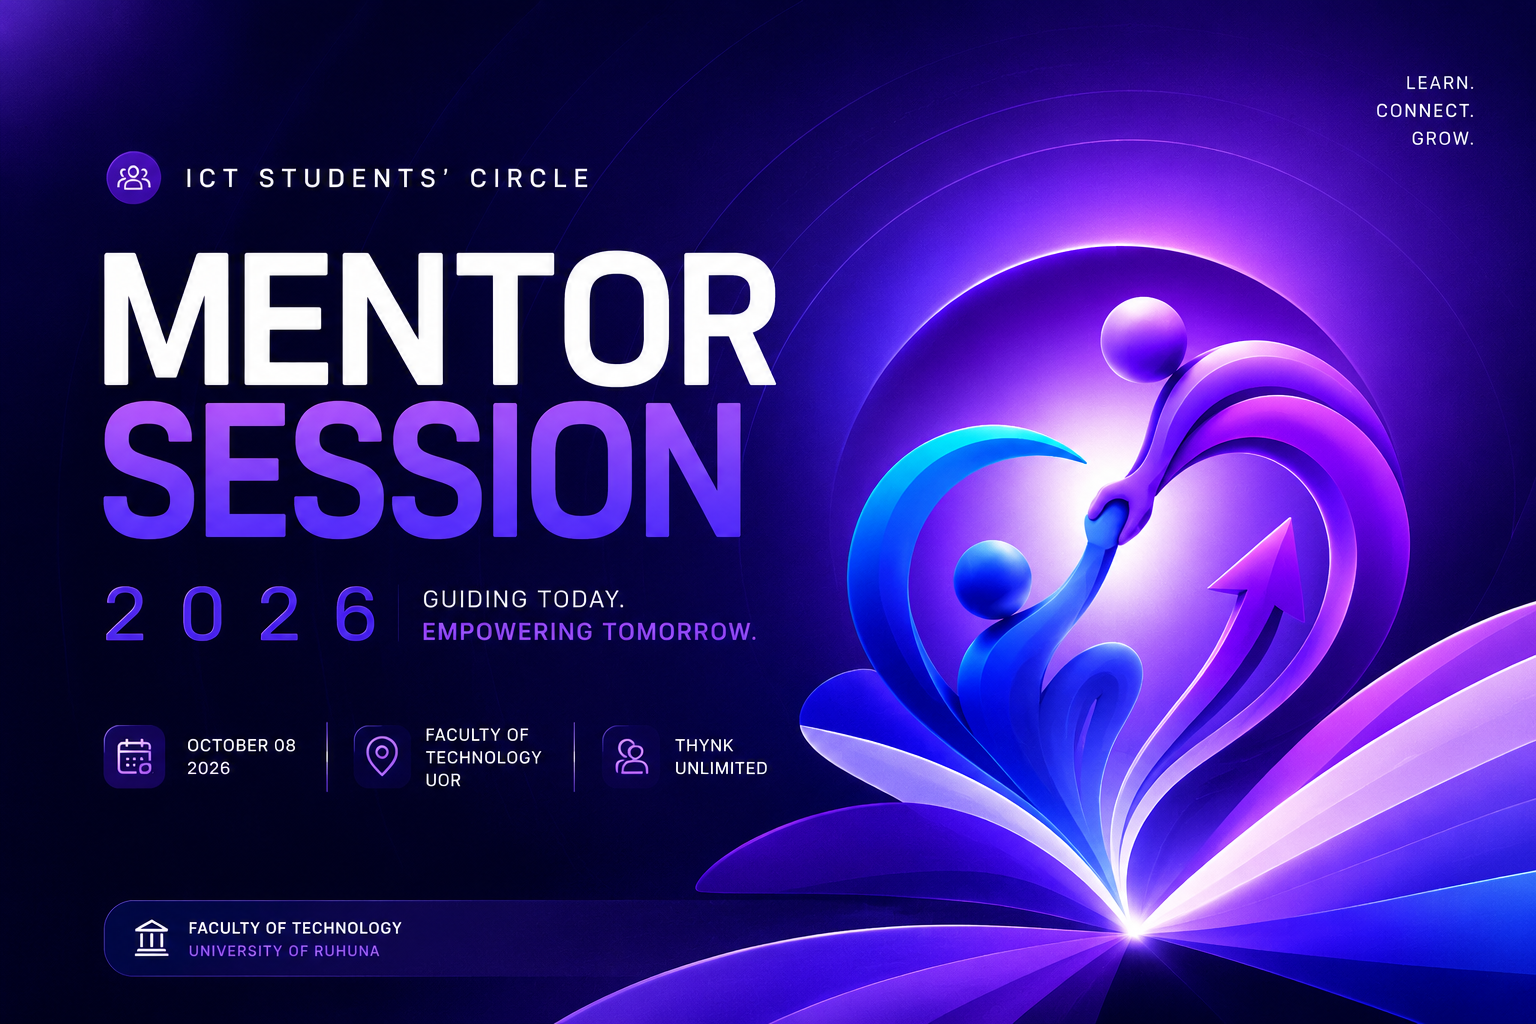
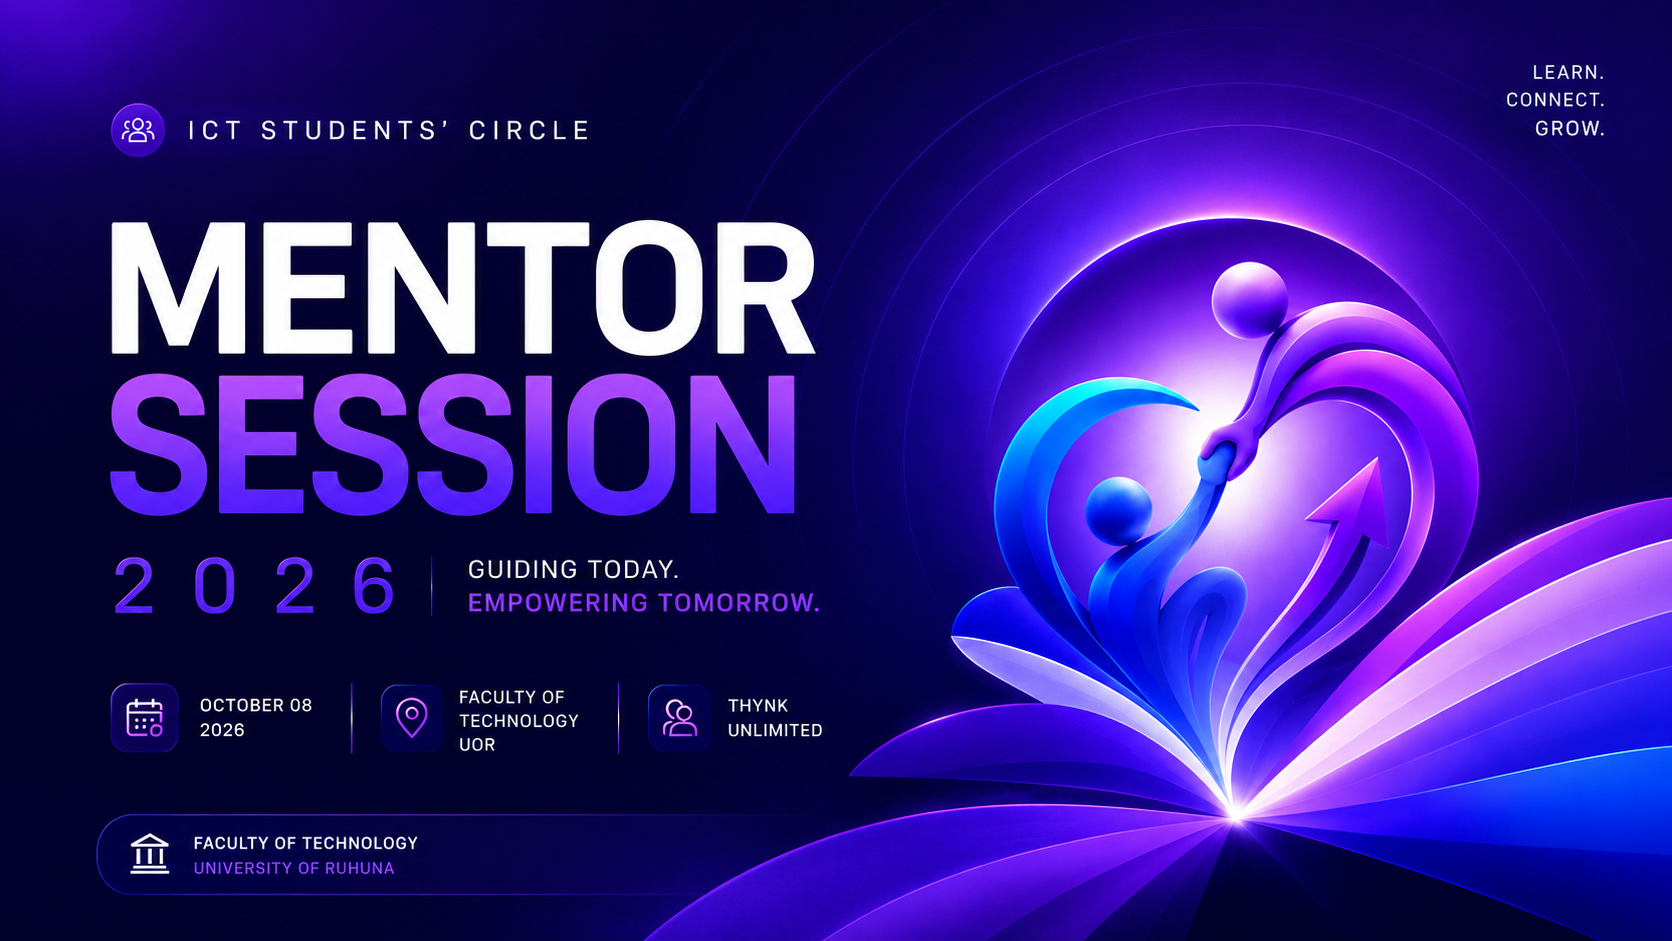
feat: mentor card display scene with prev/next admin control
- New 'mentor-card' DisplayScene type: shows one mentor + their mentees
- MentorCardScene: photo circle, name, student ID, batch, comm method,
  mentee list with number badges — all animated in on scene change
- DisplayControlTab: Mentor Cards section with prev/next buttons,
  jump dropdown, live preview of current mentor + mentee count
- Mentor matching via assignedMentor name from overview data
- Scene transitions: fade + slide with staggered mentee row animations

diff --git a/components/screens/AdminScreen.tsx b/components/screens/AdminScreen.tsx
@@ -792,6 +792,7 @@ function DisplayControlTab({ overview }: { overview: Overview }) {
   const [customText, setCustomText] = useState("");
   const [customSub,  setCustomSub]  = useState("");
   const [lastScene,  setLastScene]  = useState("");
+  const [mentorIdx,  setMentorIdx]  = useState(0);
 
   const push = async (scene: object) => {
     setSending(true);
@@ -801,8 +802,44 @@ function DisplayControlTab({ overview }: { overview: Overview }) {
         headers: { "Content-Type": "application/json" },
         body: JSON.stringify({ scene }),
       });
-      if (res.ok) setLastScene(JSON.stringify(scene));
+      if (res.ok) setLastScene((scene as { type: string }).type);
     } finally { setSending(false); }
+  };
+
+  // Build mentor-card scene from overview data
+  const pushMentorCard = (idx: number) => {
+    const mentor = overview.mentors[idx];
+    if (!mentor) return;
+    // Find mentees assigned to this mentor
+    const mentees = overview.mentees
+      .filter((m) => m.assignedMentor === mentor.full_name)
+      .map((m) => ({ name: m.full_name, studentId: m.student_id }));
+
+    void push({
+      type: "mentor-card",
+      mentor: {
+        id:                  mentor.id,
+        name:                mentor.full_name,
+        studentId:           mentor.student_id ?? null,
+        batch:               mentor.batch ?? null,
+        photoUrl:            mentor.profile_photo_url ?? null,
+        communicationMethod: mentor.communication_method,
+      },
+      mentees,
+      index: idx,
+      total: overview.mentors.length,
+    });
+  };
+
+  const approvedMentors = overview.mentors.filter((m) => m.is_approved);
+  const safeMentorIdx   = Math.min(mentorIdx, Math.max(0, approvedMentors.length - 1));
+
+  const goTo = (idx: number) => {
+    setMentorIdx(idx);
+    const mentor = approvedMentors[idx];
+    if (!mentor) return;
+    const realIdx = overview.mentors.findIndex((m) => m.id === mentor.id);
+    pushMentorCard(realIdx);
   };
 
   const s = overview.stats;
@@ -814,15 +851,15 @@ function DisplayControlTab({ overview }: { overview: Overview }) {
       <div className="card" style={{ borderLeft:"4px solid #6366f1" }}>
         <h3 className="card-title" style={{ margin:"0 0 8px" }}>📺 Presentation Display</h3>
         <p className="muted" style={{ fontSize:13, marginBottom:12 }}>
-          Open this URL on the projector / second screen. It updates in real-time when you change scenes below.
+          Open this URL on the projector / second screen. Updates in real-time.
         </p>
-        <a href="/display" target="_blank" rel="noopener noreferrer"
-          style={{ display:"inline-flex", alignItems:"center", gap:6, background:"var(--indigo-soft)", color:"var(--indigo)", fontWeight:700, fontSize:13, padding:"8px 16px", borderRadius:9, textDecoration:"none" }}>
-          /display ↗
-        </a>
-        {lastScene && (
-          <p className="hint" style={{ marginTop:10 }}>Active: <code style={{ fontSize:11.5 }}>{lastScene}</code></p>
-        )}
+        <div style={{ display:"flex", alignItems:"center", gap:12, flexWrap:"wrap" }}>
+          <a href="/display" target="_blank" rel="noopener noreferrer"
+            style={{ display:"inline-flex", alignItems:"center", gap:6, background:"var(--indigo-soft)", color:"var(--indigo)", fontWeight:700, fontSize:13, padding:"8px 16px", borderRadius:9, textDecoration:"none" }}>
+            /display ↗
+          </a>
+          {lastScene && <span className="muted" style={{ fontSize:12 }}>Active scene: <b>{lastScene}</b></span>}
+        </div>
       </div>
 
       {/* Scene buttons */}
@@ -831,7 +868,7 @@ function DisplayControlTab({ overview }: { overview: Overview }) {
         <div style={{ display:"flex", gap:10, flexWrap:"wrap" }}>
           <button className="btn btn-outline btn-sm" disabled={sending}
             onClick={() => void push({ type: "idle" })}>
-            🌌 Idle / Branding
+            🌌 Cover / Idle
           </button>
           <button className="btn btn-primary btn-sm" disabled={sending}
             onClick={() => void push({ type: "allocation", count: s.assigned, total: s.totalMentees })}>
@@ -845,26 +882,78 @@ function DisplayControlTab({ overview }: { overview: Overview }) {
         </div>
       </div>
 
+      {/* Mentor card navigator */}
+      <div className="card">
+        <h3 className="card-title" style={{ marginBottom:4 }}>Mentor Cards</h3>
+        <p className="muted" style={{ fontSize:13, marginBottom:16 }}>
+          Show one mentor and their assigned mentees on the display.
+        </p>
+        {approvedMentors.length === 0 ? (
+          <p className="muted">No approved mentors yet.</p>
+        ) : (
+          <>
+            {/* Current mentor preview */}
+            <div style={{ display:"flex", alignItems:"center", gap:14, marginBottom:16, padding:"12px 16px", background:"var(--gray-50)", borderRadius:12, border:"1px solid var(--gray-200)" }}>
+              {approvedMentors[safeMentorIdx]?.profile_photo_url ? (
+                // eslint-disable-next-line @next/next/no-img-element
+                <img src={approvedMentors[safeMentorIdx].profile_photo_url!} alt=""
+                  style={{ width:44, height:44, borderRadius:"50%", objectFit:"cover", objectPosition:"center 20%", flexShrink:0 }} />
+              ) : (
+                <div style={{ width:44, height:44, borderRadius:"50%", background:"var(--indigo-soft)", display:"flex", alignItems:"center", justifyContent:"center", fontWeight:800, color:"var(--indigo)", flexShrink:0, fontSize:14 }}>
+                  {approvedMentors[safeMentorIdx]?.full_name.split(" ").map(w => w[0]).slice(0,2).join("")}
+                </div>
+              )}
+              <div style={{ flex:1, minWidth:0 }}>
+                <div style={{ fontWeight:700, fontSize:14, overflow:"hidden", textOverflow:"ellipsis", whiteSpace:"nowrap" }}>
+                  {approvedMentors[safeMentorIdx]?.full_name}
+                </div>
+                <div className="muted" style={{ fontSize:12 }}>
+                  {safeMentorIdx + 1} of {approvedMentors.length} · {
+                    overview.mentees.filter(m => m.assignedMentor === approvedMentors[safeMentorIdx]?.full_name).length
+                  } mentees
+                </div>
+              </div>
+            </div>
+
+            {/* Controls */}
+            <div style={{ display:"flex", gap:8, flexWrap:"wrap", alignItems:"center" }}>
+              <button className="btn btn-outline btn-sm" disabled={sending || safeMentorIdx === 0}
+                onClick={() => goTo(safeMentorIdx - 1)}>
+                ← Prev
+              </button>
+              <button className="btn btn-primary btn-sm" disabled={sending}
+                onClick={() => goTo(safeMentorIdx)}>
+                📺 Show on Display
+              </button>
+              <button className="btn btn-outline btn-sm" disabled={sending || safeMentorIdx >= approvedMentors.length - 1}
+                onClick={() => goTo(safeMentorIdx + 1)}>
+                Next →
+              </button>
+              {/* Jump dropdown */}
+              <select
+                style={{ fontSize:12, padding:"5px 10px", borderRadius:8, border:"1px solid var(--gray-200)", marginLeft:"auto" }}
+                value={safeMentorIdx}
+                onChange={(e) => goTo(Number(e.target.value))}
+              >
+                {approvedMentors.map((m, i) => (
+                  <option key={m.id} value={i}>{i + 1}. {m.full_name}</option>
+                ))}
+              </select>
+            </div>
+          </>
+        )}
+      </div>
+
       {/* Custom message */}
       <div className="card">
         <h3 className="card-title" style={{ marginBottom:12 }}>Custom Message</h3>
         <div style={{ display:"flex", flexDirection:"column", gap:10 }}>
-          <input
-            className="mreg-input"
-            type="text"
-            placeholder="Main text (e.g. Welcome!)"
-            value={customText}
+          <input type="text" placeholder="Main text (e.g. Welcome!)" value={customText}
             onChange={(e) => setCustomText(e.target.value)}
-            style={{ background:"var(--gray-50)", border:"1.5px solid var(--gray-200)", borderRadius:10, height:42, padding:"0 14px", fontSize:14 }}
-          />
-          <input
-            className="mreg-input"
-            type="text"
-            placeholder="Sub-text (optional)"
-            value={customSub}
+            style={{ background:"var(--gray-50)", border:"1.5px solid var(--gray-200)", borderRadius:10, height:42, padding:"0 14px", fontSize:14 }} />
+          <input type="text" placeholder="Sub-text (optional)" value={customSub}
             onChange={(e) => setCustomSub(e.target.value)}
-            style={{ background:"var(--gray-50)", border:"1.5px solid var(--gray-200)", borderRadius:10, height:42, padding:"0 14px", fontSize:14 }}
-          />
+            style={{ background:"var(--gray-50)", border:"1.5px solid var(--gray-200)", borderRadius:10, height:42, padding:"0 14px", fontSize:14 }} />
           <button className="btn btn-outline btn-sm" disabled={sending || !customText.trim()}
             onClick={() => void push({ type: "custom", text: customText.trim(), sub: customSub.trim() || undefined })}>
             Push message →

diff --git a/components/screens/DisplayScreen.tsx b/components/screens/DisplayScreen.tsx
@@ -1,7 +1,6 @@
 "use client";
 
-import { useEffect, useRef, useState } from "react";
-import type { DisplayState, DisplayScene } from "@/lib/display-state";
+import { useEffect, useRef, useState } from "react";import type { DisplayState, DisplayScene } from "@/lib/display-state";
 
 // ─── Ghost row animation helpers ─────────────────────────────────────────────
 
@@ -227,6 +226,152 @@ function CustomScene({ scene }: { scene: Extract<DisplayScene, { type: "custom" 
   );
 }
 
+function MentorCardScene({ scene }: { scene: Extract<DisplayScene, { type: "mentor-card" }> }) {
+  const [vis, setVis] = useState(false);
+  const prevKey = useRef("");
+  const key = `${scene.mentor.id}-${scene.index}`;
+
+  useEffect(() => {
+    if (prevKey.current !== key) {
+      setVis(false);
+      prevKey.current = key;
+      const t = setTimeout(() => setVis(true), 80);
+      return () => clearTimeout(t);
+    }
+  }, [key]);
+
+  useEffect(() => { const t = setTimeout(() => setVis(true), 80); return () => clearTimeout(t); }, []);
+
+  const { mentor, mentees } = scene;
+
+  return (
+    <div style={{
+      width:"100%", height:"100%",
+      background:"linear-gradient(145deg,#0f0c29 0%,#1a1a3e 60%,#0d1b2a 100%)",
+      display:"flex", alignItems:"center", justifyContent:"center",
+      padding:"4vh 6vw", gap:"6vw", overflow:"hidden", position:"relative",
+    }}>
+      {/* Ambient glow */}
+      <div style={{ position:"absolute", width:"40vw", height:"40vw", borderRadius:"50%", background:"radial-gradient(circle,rgba(99,102,241,0.15) 0%,transparent 70%)", top:"-10%", right:"-5%", pointerEvents:"none" }} />
+
+      {/* ── Left: Mentor photo + name ── */}
+      <div style={{
+        display:"flex", flexDirection:"column", alignItems:"center",
+        gap:"2vh", flexShrink:0, width:"clamp(180px,28vw,360px)",
+        opacity: vis ? 1 : 0, transform: vis ? "translateX(0)" : "translateX(-40px)",
+        transition:"opacity 0.5s ease, transform 0.5s ease",
+      }}>
+        {/* Photo */}
+        <div style={{
+          width:"clamp(140px,22vw,280px)", height:"clamp(140px,22vw,280px)",
+          borderRadius:"50%", overflow:"hidden",
+          border:"4px solid rgba(99,102,241,0.5)",
+          boxShadow:"0 0 60px rgba(99,102,241,0.3)",
+          background:"#1a1a3e", flexShrink:0,
+        }}>
+          {mentor.photoUrl ? (
+            // eslint-disable-next-line @next/next/no-img-element
+            <img src={mentor.photoUrl} alt={mentor.name}
+              style={{ width:"100%", height:"100%", objectFit:"cover", objectPosition:"center 20%" }} />
+          ) : (
+            <div style={{
+              width:"100%", height:"100%",
+              display:"flex", alignItems:"center", justifyContent:"center",
+              fontSize:"clamp(32px,5vw,64px)", fontWeight:800, color:"rgba(199,210,254,0.5)",
+              background:"linear-gradient(135deg,#312e81,#1e1b4b)",
+            }}>
+              {mentor.name.split(" ").map(w => w[0]).slice(0,2).join("")}
+            </div>
+          )}
+        </div>
+
+        {/* Name + meta */}
+        <div style={{ textAlign:"center" }}>
+          <div style={{ fontSize:"clamp(16px,2.2vw,32px)", fontWeight:800, color:"#fff", lineHeight:1.2 }}>
+            {mentor.name}
+          </div>
+          {mentor.studentId && (
+            <div style={{ marginTop:6, fontSize:"clamp(11px,1.2vw,16px)", color:"rgba(199,210,254,0.5)", fontFamily:"ui-monospace,monospace" }}>
+              {mentor.studentId}
+            </div>
+          )}
+          <div style={{
+            marginTop:10, display:"inline-flex", alignItems:"center", gap:6,
+            background:"rgba(99,102,241,0.15)", border:"1px solid rgba(99,102,241,0.3)",
+            borderRadius:99, padding:"4px 14px",
+            fontSize:"clamp(10px,1vw,14px)", fontWeight:700, color:"rgba(199,210,254,0.8)",
+          }}>
+            {mentor.batch ?? "Mentor"} · {mentor.communicationMethod}
+          </div>
+        </div>
+
+        {/* Position indicator */}
+        <div style={{ fontSize:"clamp(10px,1vw,13px)", color:"rgba(199,210,254,0.3)", letterSpacing:"1px" }}>
+          {scene.index + 1} / {scene.total}
+        </div>
+      </div>
+
+      {/* ── Divider ── */}
+      <div style={{
+        width:1, alignSelf:"stretch", margin:"4vh 0",
+        background:"linear-gradient(to bottom,transparent,rgba(99,102,241,0.4),transparent)",
+        flexShrink:0,
+        opacity: vis ? 1 : 0, transition:"opacity 0.5s ease 0.15s",
+      }} />
+
+      {/* ── Right: Mentees ── */}
+      <div style={{
+        flex:1, minWidth:0, display:"flex", flexDirection:"column",
+        gap:"clamp(8px,1.5vh,20px)",
+        opacity: vis ? 1 : 0, transform: vis ? "translateX(0)" : "translateX(40px)",
+        transition:"opacity 0.5s ease 0.1s, transform 0.5s ease 0.1s",
+      }}>
+        <div style={{
+          fontSize:"clamp(10px,1vw,14px)", fontWeight:700, letterSpacing:"3px",
+          textTransform:"uppercase", color:"rgba(199,210,254,0.4)", marginBottom:"1vh",
+        }}>
+          Assigned Mentees
+        </div>
+
+        {mentees.length === 0 ? (
+          <div style={{ fontSize:"clamp(14px,1.8vw,22px)", color:"rgba(199,210,254,0.3)", fontStyle:"italic" }}>
+            No mentees assigned yet
+          </div>
+        ) : mentees.map((mentee, i) => (
+          <div key={mentee.studentId} style={{
+            display:"flex", alignItems:"center", gap:"clamp(10px,1.5vw,20px)",
+            background:"rgba(255,255,255,0.04)", border:"1px solid rgba(255,255,255,0.07)",
+            borderRadius:14, padding:"clamp(10px,1.5vh,18px) clamp(14px,2vw,24px)",
+            opacity: vis ? 1 : 0,
+            transform: vis ? "translateX(0)" : "translateX(20px)",
+            transition: `opacity 0.4s ease ${0.2 + i*0.1}s, transform 0.4s ease ${0.2 + i*0.1}s`,
+          }}>
+            {/* Number badge */}
+            <div style={{
+              width:"clamp(28px,3vw,42px)", height:"clamp(28px,3vw,42px)",
+              borderRadius:"50%", background:"rgba(99,102,241,0.2)",
+              border:"1.5px solid rgba(99,102,241,0.4)",
+              display:"flex", alignItems:"center", justifyContent:"center",
+              fontSize:"clamp(11px,1.2vw,16px)", fontWeight:800, color:"#a5b4fc",
+              flexShrink:0,
+            }}>
+              {i + 1}
+            </div>
+            <div>
+              <div style={{ fontSize:"clamp(14px,1.8vw,24px)", fontWeight:700, color:"#fff" }}>
+                {mentee.name}
+              </div>
+              <div style={{ fontSize:"clamp(10px,1vw,14px)", color:"rgba(199,210,254,0.4)", fontFamily:"ui-monospace,monospace", marginTop:2 }}>
+                {mentee.studentId}
+              </div>
+            </div>
+          </div>
+        ))}
+      </div>
+    </div>
+  );
+}
+
 // ─── Main display screen ──────────────────────────────────────────────────────
 
 export function DisplayScreen() {
@@ -257,10 +402,11 @@ export function DisplayScreen() {
       background:"#0f0c29",
       fontFamily:"inherit",
     }}>
-      {scene.type === "idle"       && <IdleScene />}
-      {scene.type === "allocation" && <AllocationScene scene={scene} />}
-      {scene.type === "results"    && <ResultsScene   scene={scene} />}
-      {scene.type === "custom"     && <CustomScene    scene={scene} />}
+      {scene.type === "idle"        && <IdleScene />}
+      {scene.type === "allocation"  && <AllocationScene scene={scene} />}
+      {scene.type === "results"     && <ResultsScene   scene={scene} />}
+      {scene.type === "custom"      && <CustomScene    scene={scene} />}
+      {scene.type === "mentor-card" && <MentorCardScene scene={scene} />}
     </div>
   );
 }

diff --git a/lib/display-state.ts b/lib/display-state.ts
@@ -9,7 +9,21 @@ export type DisplayScene =
   | { type: "idle" }
   | { type: "allocation"; count: number; total: number }
   | { type: "results"; assigned: number; unmatched: number; satisfaction: number }
-  | { type: "custom"; text: string; sub?: string };
+  | { type: "custom"; text: string; sub?: string }
+  | {
+      type: "mentor-card";
+      mentor: {
+        id: string;
+        name: string;
+        studentId: string | null;
+        batch: string | null;
+        photoUrl: string | null;
+        communicationMethod: string;
+      };
+      mentees: { name: string; studentId: string }[];
+      index: number;   // 0-based position among all mentors
+      total: number;   // total mentor count
+    };
 
 export type DisplayState = {
   scene: DisplayScene;
